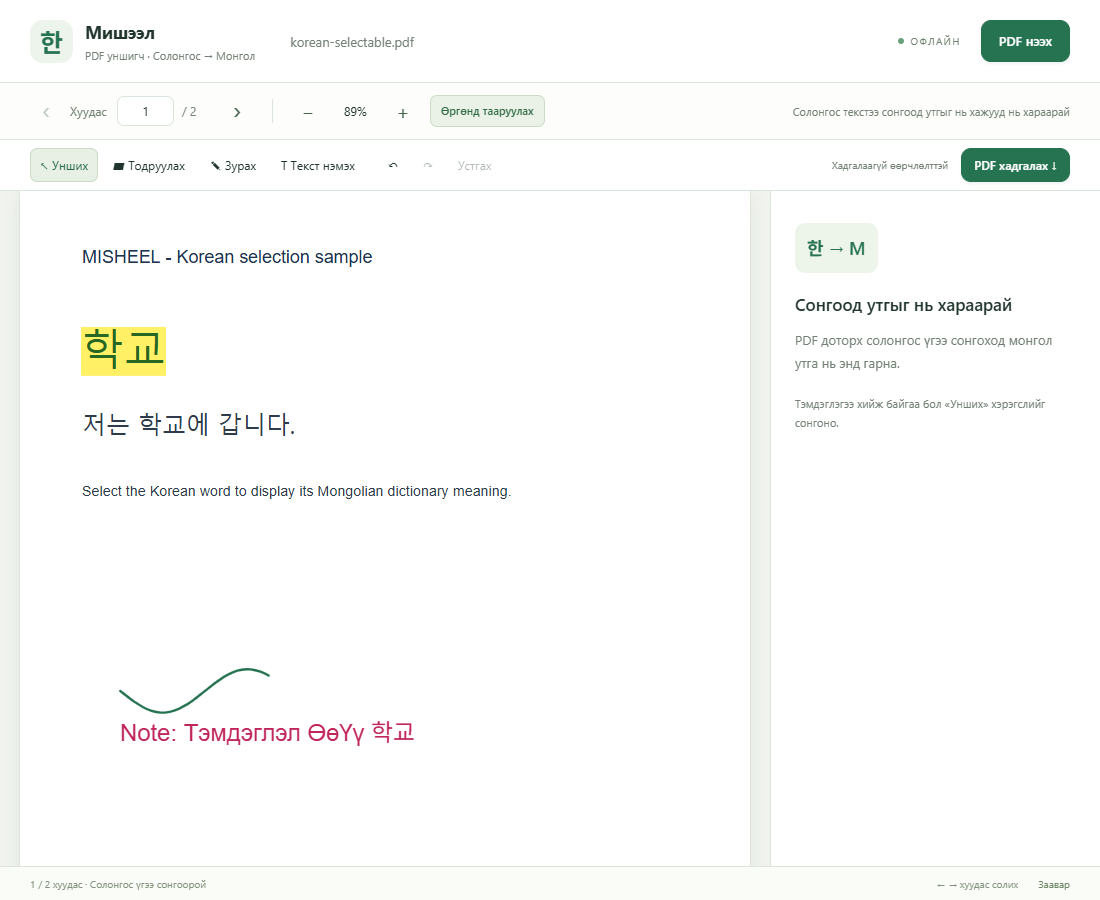
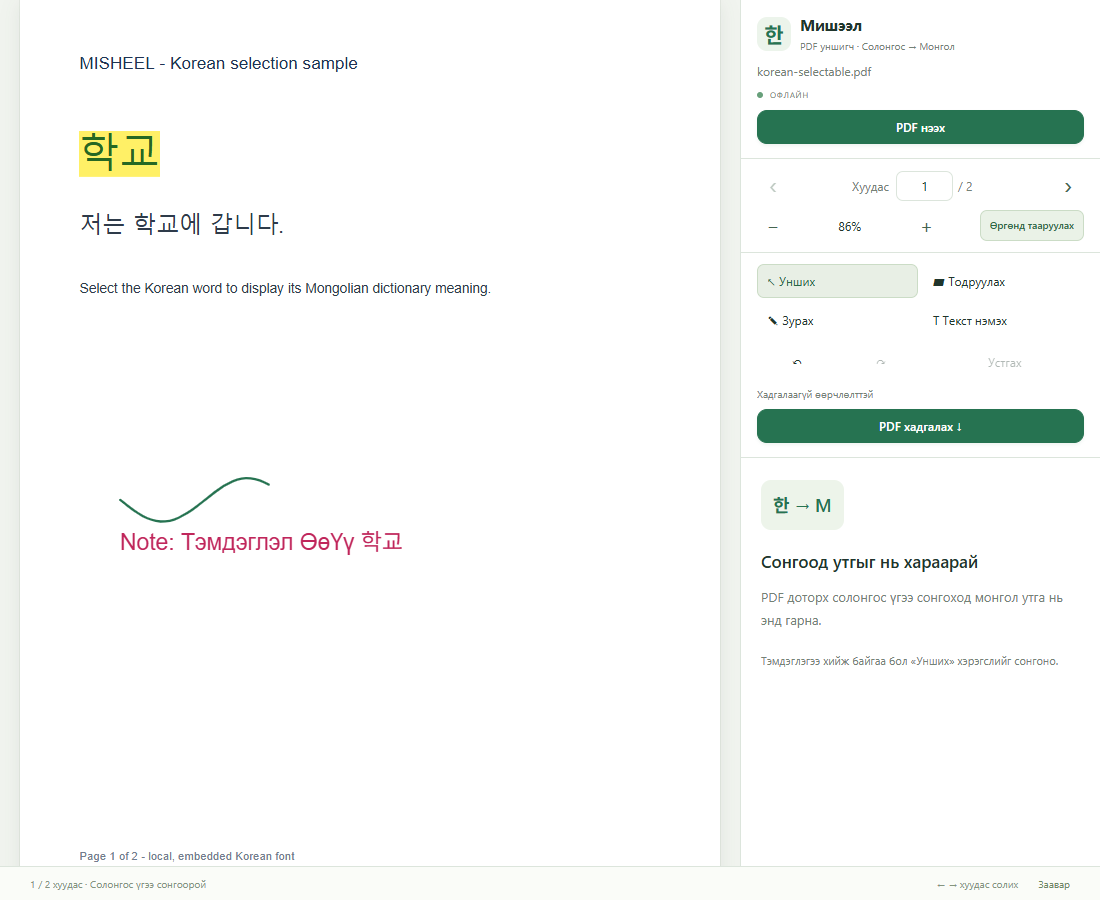
Move PDF file, navigation and annotation controls to the right sidebar (v1.2.2)

diff --git a/extension/help.html b/extension/help.html
@@ -3,8 +3,8 @@
 <body><main><div class="logo">한</div><h1>Сонгоод, утгыг нь хараарай.</h1><p class="lead">Мишээл аппын солонгос–монгол толь одоо таны browser-т.</p>
 <ol><li><strong>Вэб хуудас нээнэ.</strong><p>Extension суулгахын өмнө нээсэн хуудас байвал нэг удаа refresh хийнэ.</p></li><li><strong>Солонгос үг эсвэл хэллэг сонгоно.</strong><p>Хулганаар чирэх эсвэл үгэн дээр хоёр дарна. Монгол утга нь сонгосон текстийн хажууд гарна.</p></li><li><strong>Үгээ уншаад үргэлжлүүлнэ.</strong><p>Гадна талд дарах, × товч эсвэл Esc дарж хаана. Browser-ийн toolbar дахь Мишээл дүрсээр шууд хайж, автоматаар гаргахыг унтрааж болно.</p></li></ol>
 <section><h2>Офлайн толь</h2><p>Таны өгсөн Android аппын толь дээр үндэслэсэн. API key, бүртгэл, интернет шаардлагагүй. Сонгосон текстийг сервер рүү илгээхгүй.</p><p>Үг болон тольд байгаа хэллэгийн утгыг харуулна. Бүтэн өгүүлбэр сонговол олдсон үгсийн утгыг тус тусад нь харуулна. Нөхцөлтэй үгсийг зарим үндсэн хэлбэрээр хайна; солонгос хэлний бүх хувирлыг танихгүй.</p><p>«Google Translate-аар өгүүлбэр орчуулах» холбоосыг өөрөө дарвал сонгосон текст Google Translate дээр нээгдэнэ.</p></section>
-<section><h2>PDF нээгээд текстээ сонгоорой</h2><p><strong>PDF-ээ Chrome / Edge-ээр нээгээд солонгос текстээ сонгоход л утга нь гарна.</strong> Мишээл нь вэб PDF болон зөвшөөрөлтэй дотоод PDF-ийг тухайн tab-д өөрийн уншигчаар автоматаар нээнэ. Баруун товчийн цэс ашиглах, файлаа дахин сонгох шаардлагагүй. Уншигч анх <strong>«Унших»</strong> горимд байна.</p><p>Компьютерийн PDF-д extension тохиргооны <strong>Details → Allow access to file URLs</strong>-ийг нэг удаа асаана. Toolbar-ийн popup дахь <strong>«PDF-ийг автоматаар нээх»</strong> тохиргоо анхнаасаа асаалттай. Унтраавал browser-ийн ердийн PDF viewer-д нээгдэнэ. Толийн цонх нь Мишээлийн уншигчид ажиллана.</p><p>Гараар нээх бол toolbar дахь <strong>«PDF файл нээх»</strong> → уншигчийн <strong>«PDF файл сонгох»</strong> товчийг ашиглана. Эсвэл PDF-ээ чирж оруулна; 200 МБ хүртэл файл нээнэ. Файл сонгох арга нь интернет болон нэмэлт файлд хандах зөвшөөрөл шаардахгүй. Нээлттэй PDF-д «Энэ PDF-ийг Мишээлээр нээх» товчийг мөн ашиглаж болно. Холбоосоор нээгдэхгүй бол PDF-ээ татаж аваад файл сонгох товчоор нээнэ.</p><p>PDF-ийн хуудсуудыг доош тасралтгүй гүйлгэж уншина. Гүйлгэхэд хуудасны дугаар автоматаар шинэчлэгдэнэ. Солонгос үгээ сонгоход монгол утга баруун талын толийн хэсэгт гарна; жижиг дэлгэц дээр энэ хэсэг PDF-ийн доор байрлана. Хуудас солих, хуудасны дугаар оруулах, томруулах болон дэлгэцийн өргөнд тааруулах удирдлага мөн ажиллана. Толийн цонх сонгож болдог тексттэй PDF дээр ажиллана. Сканнердсан зураг хэлбэрийн PDF-д OCR ороогүй.</p></section>
-<section><h2>PDF тэмдэглэгээ болон хадгалах</h2><p>Edge-ийн PDF хэрэгслүүдтэй адил хуудас дээр тэмдэглэгээ хийж болно:</p><ul><li><strong>Тодруулах:</strong> текстээ чирж сонгоод өнгөөр тодруулна.</li><li><strong>Зурах:</strong> хулгана эсвэл үзгээр зурна. Өнгө болон үзгийн өргөнийг сонгоно.</li><li><strong>Текст нэмэх:</strong> хуудас дээр дарж тэмдэглэл бичнэ. Өнгө болон текстийн хэмжээг сонгоно.</li><li><strong>↶ / ↷:</strong> тэмдэглэгээний үйлдлийг буцаах / дахин хийх. <strong>Устгах:</strong> сонгосон тэмдэглэгээг устгана.</li></ul><p>Тэмдэглэгээний горимд толийн цонх гарахгүй. Үгийн утга харахдаа <strong>«Унших»</strong> руу буцна. Текст нэмэх нь шинэ тэмдэглэл тавих хэрэгсэл; эх PDF-ийн үндсэн өгүүлбэрийг сольж засахгүй.</p><p><strong>«PDF хадгалах»</strong> товчоор <strong>эх-файлын-нэр-misheel.pdf</strong> нэртэй шинэ хуулбар татна. Тодруулга, зураг, текстийг стандарт PDF тэмдэглэгээгээр хадгалдаг тул Мишээл, Edge болон бусад PDF уншигчаар дахин нээж харж болно. Файлаа хаахаас өмнө өөрчлөлтөө хадгалаарай.</p><p>Нууц үгтэй PDF-д монгол, солонгос текстэн тэмдэглэл хадгалахад нууц үггүй PDF хувилбар шаардлагатай байж болно. Хадгалахад алдаа гарвал өөрчлөлт одоо нээлттэй уншигчид хэвээр байна.</p><p>Дотоод PDF унших, тэмдэглэх, хадгалах болон толь офлайнаар ажиллана; файлыг серверт байршуулахгүй. Вэб PDF нээхэд эх сайтаас файлыг татна.</p></section>
+<section><h2>PDF нээгээд текстээ сонгоорой</h2><p><strong>PDF-ээ Chrome / Edge-ээр нээгээд солонгос текстээ сонгоход л утга нь гарна.</strong> Мишээл нь вэб PDF болон зөвшөөрөлтэй дотоод PDF-ийг тухайн tab-д өөрийн уншигчаар автоматаар нээнэ. Баруун товчийн цэс ашиглах, файлаа дахин сонгох шаардлагагүй. Уншигч анх <strong>«Унших»</strong> горимд байна.</p><p>Компьютерийн PDF-д extension тохиргооны <strong>Details → Allow access to file URLs</strong>-ийг нэг удаа асаана. Toolbar-ийн popup дахь <strong>«PDF-ийг автоматаар нээх»</strong> тохиргоо анхнаасаа асаалттай. Унтраавал browser-ийн ердийн PDF viewer-д нээгдэнэ. Толийн цонх нь Мишээлийн уншигчид ажиллана.</p><p>Гараар нээх бол toolbar дахь <strong>«PDF файл нээх»</strong> → уншигчийн <strong>«PDF файл сонгох»</strong> товчийг ашиглана. Эсвэл PDF-ээ чирж оруулна; 200 МБ хүртэл файл нээнэ. Файл сонгох арга нь интернет болон нэмэлт файлд хандах зөвшөөрөл шаардахгүй. Нээлттэй PDF-д «Энэ PDF-ийг Мишээлээр нээх» товчийг мөн ашиглаж болно. Холбоосоор нээгдэхгүй бол PDF-ээ татаж аваад файл сонгох товчоор нээнэ.</p><p>PDF-ийн хуудсуудыг доош тасралтгүй гүйлгэж уншина. Гүйлгэхэд хуудасны дугаар автоматаар шинэчлэгдэнэ. PDF нээх, хуудас солих, хуудасны дугаар оруулах, томруулах/жижигрүүлэх, өргөнд тааруулах, тэмдэглэгээ хийх болон PDF хадгалах удирдлагууд <strong>баруун талын самбарын дээд хэсэгт</strong> байна. Солонгос үгээ сонгоход монгол утга <strong>удирдлагуудын доорх толийн хэсэгт</strong> гарна. Жижиг дэлгэц дээр удирдлага болон толь PDF-ийн доор байрлана.</p><p>Толийн цонх сонгож болдог тексттэй PDF дээр ажиллана. Сканнердсан зураг хэлбэрийн PDF-д OCR ороогүй.</p></section>
+<section><h2>PDF тэмдэглэгээ болон хадгалах</h2><p>Баруун талын самбарын тэмдэглэгээний хэрэгслүүдээр Edge-ийн PDF хэрэгслүүдтэй адил хуудас дээр тэмдэглэгээ хийж болно:</p><ul><li><strong>Тодруулах:</strong> текстээ чирж сонгоод өнгөөр тодруулна.</li><li><strong>Зурах:</strong> хулгана эсвэл үзгээр зурна. Өнгө болон үзгийн өргөнийг сонгоно.</li><li><strong>Текст нэмэх:</strong> хуудас дээр дарж тэмдэглэл бичнэ. Өнгө болон текстийн хэмжээг сонгоно.</li><li><strong>↶ / ↷:</strong> тэмдэглэгээний үйлдлийг буцаах / дахин хийх. <strong>Устгах:</strong> сонгосон тэмдэглэгээг устгана.</li></ul><p>Тэмдэглэгээний горимд толийн цонх гарахгүй. Үгийн утга харахдаа <strong>«Унших»</strong> руу буцна. Текст нэмэх нь шинэ тэмдэглэл тавих хэрэгсэл; эх PDF-ийн үндсэн өгүүлбэрийг сольж засахгүй.</p><p><strong>«PDF хадгалах»</strong> товчоор <strong>эх-файлын-нэр-misheel.pdf</strong> нэртэй шинэ хуулбар татна. Тодруулга, зураг, текстийг стандарт PDF тэмдэглэгээгээр хадгалдаг тул Мишээл, Edge болон бусад PDF уншигчаар дахин нээж харж болно. Файлаа хаахаас өмнө өөрчлөлтөө хадгалаарай.</p><p>Нууц үгтэй PDF-д монгол, солонгос текстэн тэмдэглэл хадгалахад нууц үггүй PDF хувилбар шаардлагатай байж болно. Хадгалахад алдаа гарвал өөрчлөлт одоо нээлттэй уншигчид хэвээр байна.</p><p>Дотоод PDF унших, тэмдэглэх, хадгалах болон толь офлайнаар ажиллана; файлыг серверт байршуулахгүй. Вэб PDF нээхэд эх сайтаас файлыг татна.</p></section>
 <section><h2>Компьютерт хадгалсан HTML файл</h2><p>Browser-ийн extension тохиргооноос Мишээлийг сонгоод <strong>Details → Allow access to file URLs</strong>-ийг асаана. Дараа нь browser-т нээсэн HTML файл эсвэл хадгалсан вэб хуудсаа refresh хийгээд солонгос текст сонгоно.</p><p>Энэ тохиргоог асаавал browser-т нээлттэй локал PDF-ийг Мишээл уншигчид шууд нээхэд мөн ашиглана. PDF уншигчийн файл сонгох товчоор нээхэд энэ тохиргоо шаардлагагүй.</p></section>
 <section><h2>Хаана ажиллах вэ?</h2><p>Chrome 125 болон түүнээс шинэ Chrome/Edge дээр, ердийн HTTP/HTTPS хуудас, зөвшөөрсөн локал HTML файл, Мишээл PDF уншигчид ажиллана. Browser-ийн тохиргоо, extension store, шинэ tab, бичиж буй input, textarea болон засварлах талбарууд дээр автоматаар гаргахгүй.</p><p>Утга харагдахгүй бол хуудсаа refresh хийгээд, Мишээл дүрсээр хайлт хийж үзээрэй. Хайлтаар олдохгүй байвал тухайн үг тольд байхгүй эсвэл үндсэн хэлбэрээр хайх хэрэгтэй байж болно.</p></section>
 </main></body></html>

diff --git a/extension/pdf.html b/extension/pdf.html
@@ -11,7 +11,33 @@
   <script src="pdf.mjs" type="module"></script>
 </head>
 <body>
-  <header class="reader-header">
+  <div class="reading-workspace">
+  <main class="reader-frame" aria-label="PDF хуудас">
+    <div id="reader" class="reader">
+    <section id="empty-state" class="empty-state">
+      <div class="paper-illustration" aria-hidden="true">
+        <div class="paper-top"><span>PDF</span><i></i></div>
+        <div class="paper-lines"><i></i><i></i><i></i></div>
+        <div class="selected-word" lang="ko">학교</div>
+        <div class="translation-bubble"><small>МОНГОЛ УТГА</small><strong>сургууль</strong></div>
+        <div class="paper-lines short"><i></i><i></i></div>
+      </div>
+      <span class="eyebrow">УНШИХДАА ОРЧУУЛ</span>
+      <h1>Солонгос PDF-ээ<br>Мишээлтэй уншаарай</h1>
+      <p>Үг, хэллэгээ хулганаар сонгоход<br>монгол утга нь хажууд нь гарч ирнэ.</p>
+      <button id="choose-file" class="primary large" type="button">PDF файл сонгох <span aria-hidden="true">↗</span></button>
+      <p class="drop-hint">Эсвэл PDF файлаа энд чирж оруулаарай · 200 МБ хүртэл</p>
+      <div class="privacy-note"><span aria-hidden="true">✓</span> Файл таны төхөөрөмж дээр нээгдэнэ. Серверт илгээхгүй.</div>
+    </section>
+    <div id="page-stage" class="page-stage" hidden>
+      <div id="page-shell" class="page-shell pdfViewer"></div>
+    </div>
+    <div id="busy" class="busy" role="status" aria-live="polite" hidden><span class="spinner" aria-hidden="true"></span><span id="busy-label">PDF нээж байна…</span></div>
+    </div>
+  </main>
+  <aside class="reader-sidebar" aria-label="PDF хэрэгсэл болон толь">
+    <div class="sidebar-controls">
+<header class="reader-header">
     <a class="brand" href="help.html" target="_blank" rel="noopener" aria-label="Мишээл толийн заавар">
       <span class="brand-mark" aria-hidden="true">한</span>
       <span><strong>Мишээл</strong><small>PDF уншигч · Солонгос → Монгол</small></span>
@@ -39,7 +65,7 @@
       <button id="zoom-in" class="icon-button zoom-button" type="button" aria-label="Томруулах" title="Томруулах">+</button>
       <button id="fit-width" class="secondary fit-button" type="button" aria-pressed="true">Өргөнд тааруулах</button>
     </div>
-    <p class="selection-hint">Солонгос текстээ сонгоод утгыг нь хажууд нь хараарай</p>
+    <p class="selection-hint">Солонгос текстээ сонгоод утгыг нь доорх толиос хараарай</p>
   </section>
 
   <div id="message" class="message" role="alert" hidden></div>
@@ -65,38 +91,15 @@
     <span id="save-status" class="save-status" role="status"></span>
     <button id="save-pdf" class="primary" type="button" title="Тэмдэглэгээтэй PDF татах (Ctrl+S)">PDF хадгалах ↓</button>
   </section>
-
-  <div class="reading-workspace">
-  <main class="reader-frame" aria-label="PDF хуудас">
-    <div id="reader" class="reader">
-    <section id="empty-state" class="empty-state">
-      <div class="paper-illustration" aria-hidden="true">
-        <div class="paper-top"><span>PDF</span><i></i></div>
-        <div class="paper-lines"><i></i><i></i><i></i></div>
-        <div class="selected-word" lang="ko">학교</div>
-        <div class="translation-bubble"><small>МОНГОЛ УТГА</small><strong>сургууль</strong></div>
-        <div class="paper-lines short"><i></i><i></i></div>
-      </div>
-      <span class="eyebrow">УНШИХДАА ОРЧУУЛ</span>
-      <h1>Солонгос PDF-ээ<br>Мишээлтэй уншаарай</h1>
-      <p>Үг, хэллэгээ хулганаар сонгоход<br>монгол утга нь хажууд нь гарч ирнэ.</p>
-      <button id="choose-file" class="primary large" type="button">PDF файл сонгох <span aria-hidden="true">↗</span></button>
-      <p class="drop-hint">Эсвэл PDF файлаа энд чирж оруулаарай · 200 МБ хүртэл</p>
-      <div class="privacy-note"><span aria-hidden="true">✓</span> Файл таны төхөөрөмж дээр нээгдэнэ. Серверт илгээхгүй.</div>
-    </section>
-    <div id="page-stage" class="page-stage" hidden>
-      <div id="page-shell" class="page-shell pdfViewer"></div>
     </div>
-    <div id="busy" class="busy" role="status" aria-live="polite" hidden><span class="spinner" aria-hidden="true"></span><span id="busy-label">PDF нээж байна…</span></div>
-    </div>
-  </main>
-  <aside id="translation-panel" class="translation-panel" aria-label="Солонгос монгол толь">
+  <section id="translation-panel" class="translation-panel" aria-label="Солонгос монгол толь">
     <div class="translation-placeholder">
       <span class="panel-mark" aria-hidden="true">한 → М</span>
       <h2>Сонгоод утгыг нь хараарай</h2>
       <p>PDF доторх солонгос үгээ сонгоход монгол утга нь энд гарна.</p>
       <small>Тэмдэглэгээ хийж байгаа бол «Унших» хэрэгслийг сонгоно.</small>
     </div>
+  </section>
   </aside>
   </div>
 

diff --git a/extension/pdf.css b/extension/pdf.css
@@ -112,3 +112,39 @@ h1 { font-size: clamp(24px, 3vw, 34px); line-height: 1.32; letter-spacing: -.8px
 @media (max-width: 640px) { .reader-header { padding: 14px 16px; min-height: 73px; gap: 13px; }.brand small { font-size: 10px; }.brand strong { font-size: 16px; }.brand-mark { width: 37px; height: 37px; font-size: 22px; }.document-name, .offline { display: none; }.reader-header > .primary { margin-left: auto; font-size: 12px; padding: 9px 12px; }.toolbar { padding: 8px 12px; gap: 9px; flex-wrap: wrap; }.page-form label { display: none; }.toolbar-divider { display: none; }.page-controls { gap: 4px; }.zoom-controls { margin-left: auto; gap: 3px; }.fit-button { font-size: 10px; padding: 7px; }.message, .no-text { padding: 10px 16px; }.page-stage { padding: 18px 16px 27px; }.reader-footer { padding-inline: 16px; }.keyboard-hint { display: none; }.empty-state { padding-block: 35px; }.paper-illustration { margin-bottom: 28px; }.privacy-note { font-size: 9px; } }
 @media (prefers-reduced-motion: reduce) { .spinner { animation: none; }button { transition: none; } }
 @media (prefers-color-scheme: dark) { :root { color-scheme: dark; --ink: #e0e9df; --muted: #98a896; --green: #458763; --border: #3b4b3a; --paper: #203020; --background: #182318; }.reader-header, .toolbar, .reader-footer { background: var(--paper); }.brand-mark { background: #31492f; color: #a0cf9e; }.secondary:hover, .icon-button:hover:enabled { background: #364c32; }.icon-button { color: #a6c7a2; }.fit-button[aria-pressed="true"] { color: #b7d7ad; background: #32472d; border-color: #516d48; }.empty-state > p:not(.drop-hint) { color: #a1b09a; }.eyebrow { color: #8caf7e; }.privacy-note { border-color: #364532; color: #94a78b; }.busy { background: #263a24; border-color: #526c49; color: #c3d5ba; }.drop-overlay { background: #233a20ee; border-color: #93b380; }.message { background: #4d3026; color: #efd1c1; border-color: #664333; }.message.info { background: #2c4227; color: #b9d2ac; border-color: #4c6543; }.no-text { background: #453d23; color: #dbcb96; border-color: #5c5130; }.password-dialog { background: var(--paper); }.paper-illustration, .translation-bubble { color-scheme: light; }.reader-footer a { color: #a7c398; } }
+
+/* PDF controls share the right sidebar with the dictionary. */
+.reader-sidebar { width: 360px; flex: none; min-height: 0; display: flex; flex-direction: column; background: var(--paper); border-left: 1px solid var(--border); }
+.sidebar-controls { flex: none; min-height: 0; max-height: 55%; overflow: auto; overscroll-behavior: contain; scrollbar-width: thin; }
+.reader-sidebar .reader-header { min-height: 0; display: grid; grid-template-columns: minmax(0, 1fr) auto; gap: 10px 8px; padding: 14px 16px; }
+.reader-sidebar .brand { gap: 9px; min-width: 0; }
+.reader-sidebar .brand-mark { width: 34px; height: 34px; border-radius: 10px; font-size: 21px; }
+.reader-sidebar .brand strong { font-size: 16px; }
+.reader-sidebar .brand small { font-size: 10px; }
+.reader-sidebar .offline { display: inline-flex; font-size: 8px; letter-spacing: .8px; }
+.reader-sidebar .document-name { display: block; grid-column: 1 / -1; margin: 0; font-size: 12px; }
+.reader-sidebar #open-file { grid-column: 1 / -1; width: 100%; margin: 0; padding: 7px 12px; font-size: 12px; }
+.reader-sidebar .toolbar { display: grid; gap: 7px; min-height: 0; padding: 10px 16px; background: var(--paper); }
+.reader-sidebar .page-controls, .reader-sidebar .zoom-controls { justify-content: space-between; gap: 5px; margin: 0; }
+.reader-sidebar .page-form { gap: 5px; }
+.reader-sidebar .page-form label { display: inline; }
+.reader-sidebar .toolbar-divider, .reader-sidebar .selection-hint { display: none; }
+.reader-sidebar .fit-button { margin: 0; font-size: 10px; padding: 7px 9px; }
+.reader-sidebar .annotation-toolbar { flex-direction: column; align-items: stretch; flex-wrap: nowrap; gap: 8px; padding: 11px 16px 14px; border-bottom: 0; }
+.reader-sidebar .annotation-tools { display: grid; grid-template-columns: 1fr 1fr; gap: 5px; }
+.reader-sidebar .annotation-tools .tool-button { text-align: left; }
+.reader-sidebar .annotation-options { border: 0; padding: 3px 0; gap: 18px; }
+.reader-sidebar .annotation-actions { display: grid; grid-template-columns: 1fr 1fr 2fr; gap: 5px; margin: 0; }
+.reader-sidebar .save-status { display: block; margin: 0; font-size: 10px; }
+.reader-sidebar .save-status:empty { display: none; }
+.reader-sidebar #save-pdf { width: 100%; margin: 0; }
+.reader-sidebar .message, .reader-sidebar .no-text { padding: 10px 16px; }
+.reader-sidebar .translation-panel { width: 100%; height: auto; flex: 1; min-height: 140px; border-left: 0; border-top: 1px solid var(--border); }
+.reader-sidebar .translation-placeholder { padding: 22px 20px; }
+@media (max-width: 960px) { .reader-sidebar { width: 320px; } }
+@media (max-width: 640px) {
+  .reader-sidebar { width: 100%; height: 42vh; overflow: auto; overscroll-behavior: contain; border-left: 0; border-top: 1px solid var(--border); }
+  .sidebar-controls { max-height: none; overflow: visible; }
+  .reader-sidebar .translation-panel { flex: none; height: 260px; min-height: 260px; }
+  .reader-sidebar .translation-placeholder { padding: 15px 20px; }
+}
